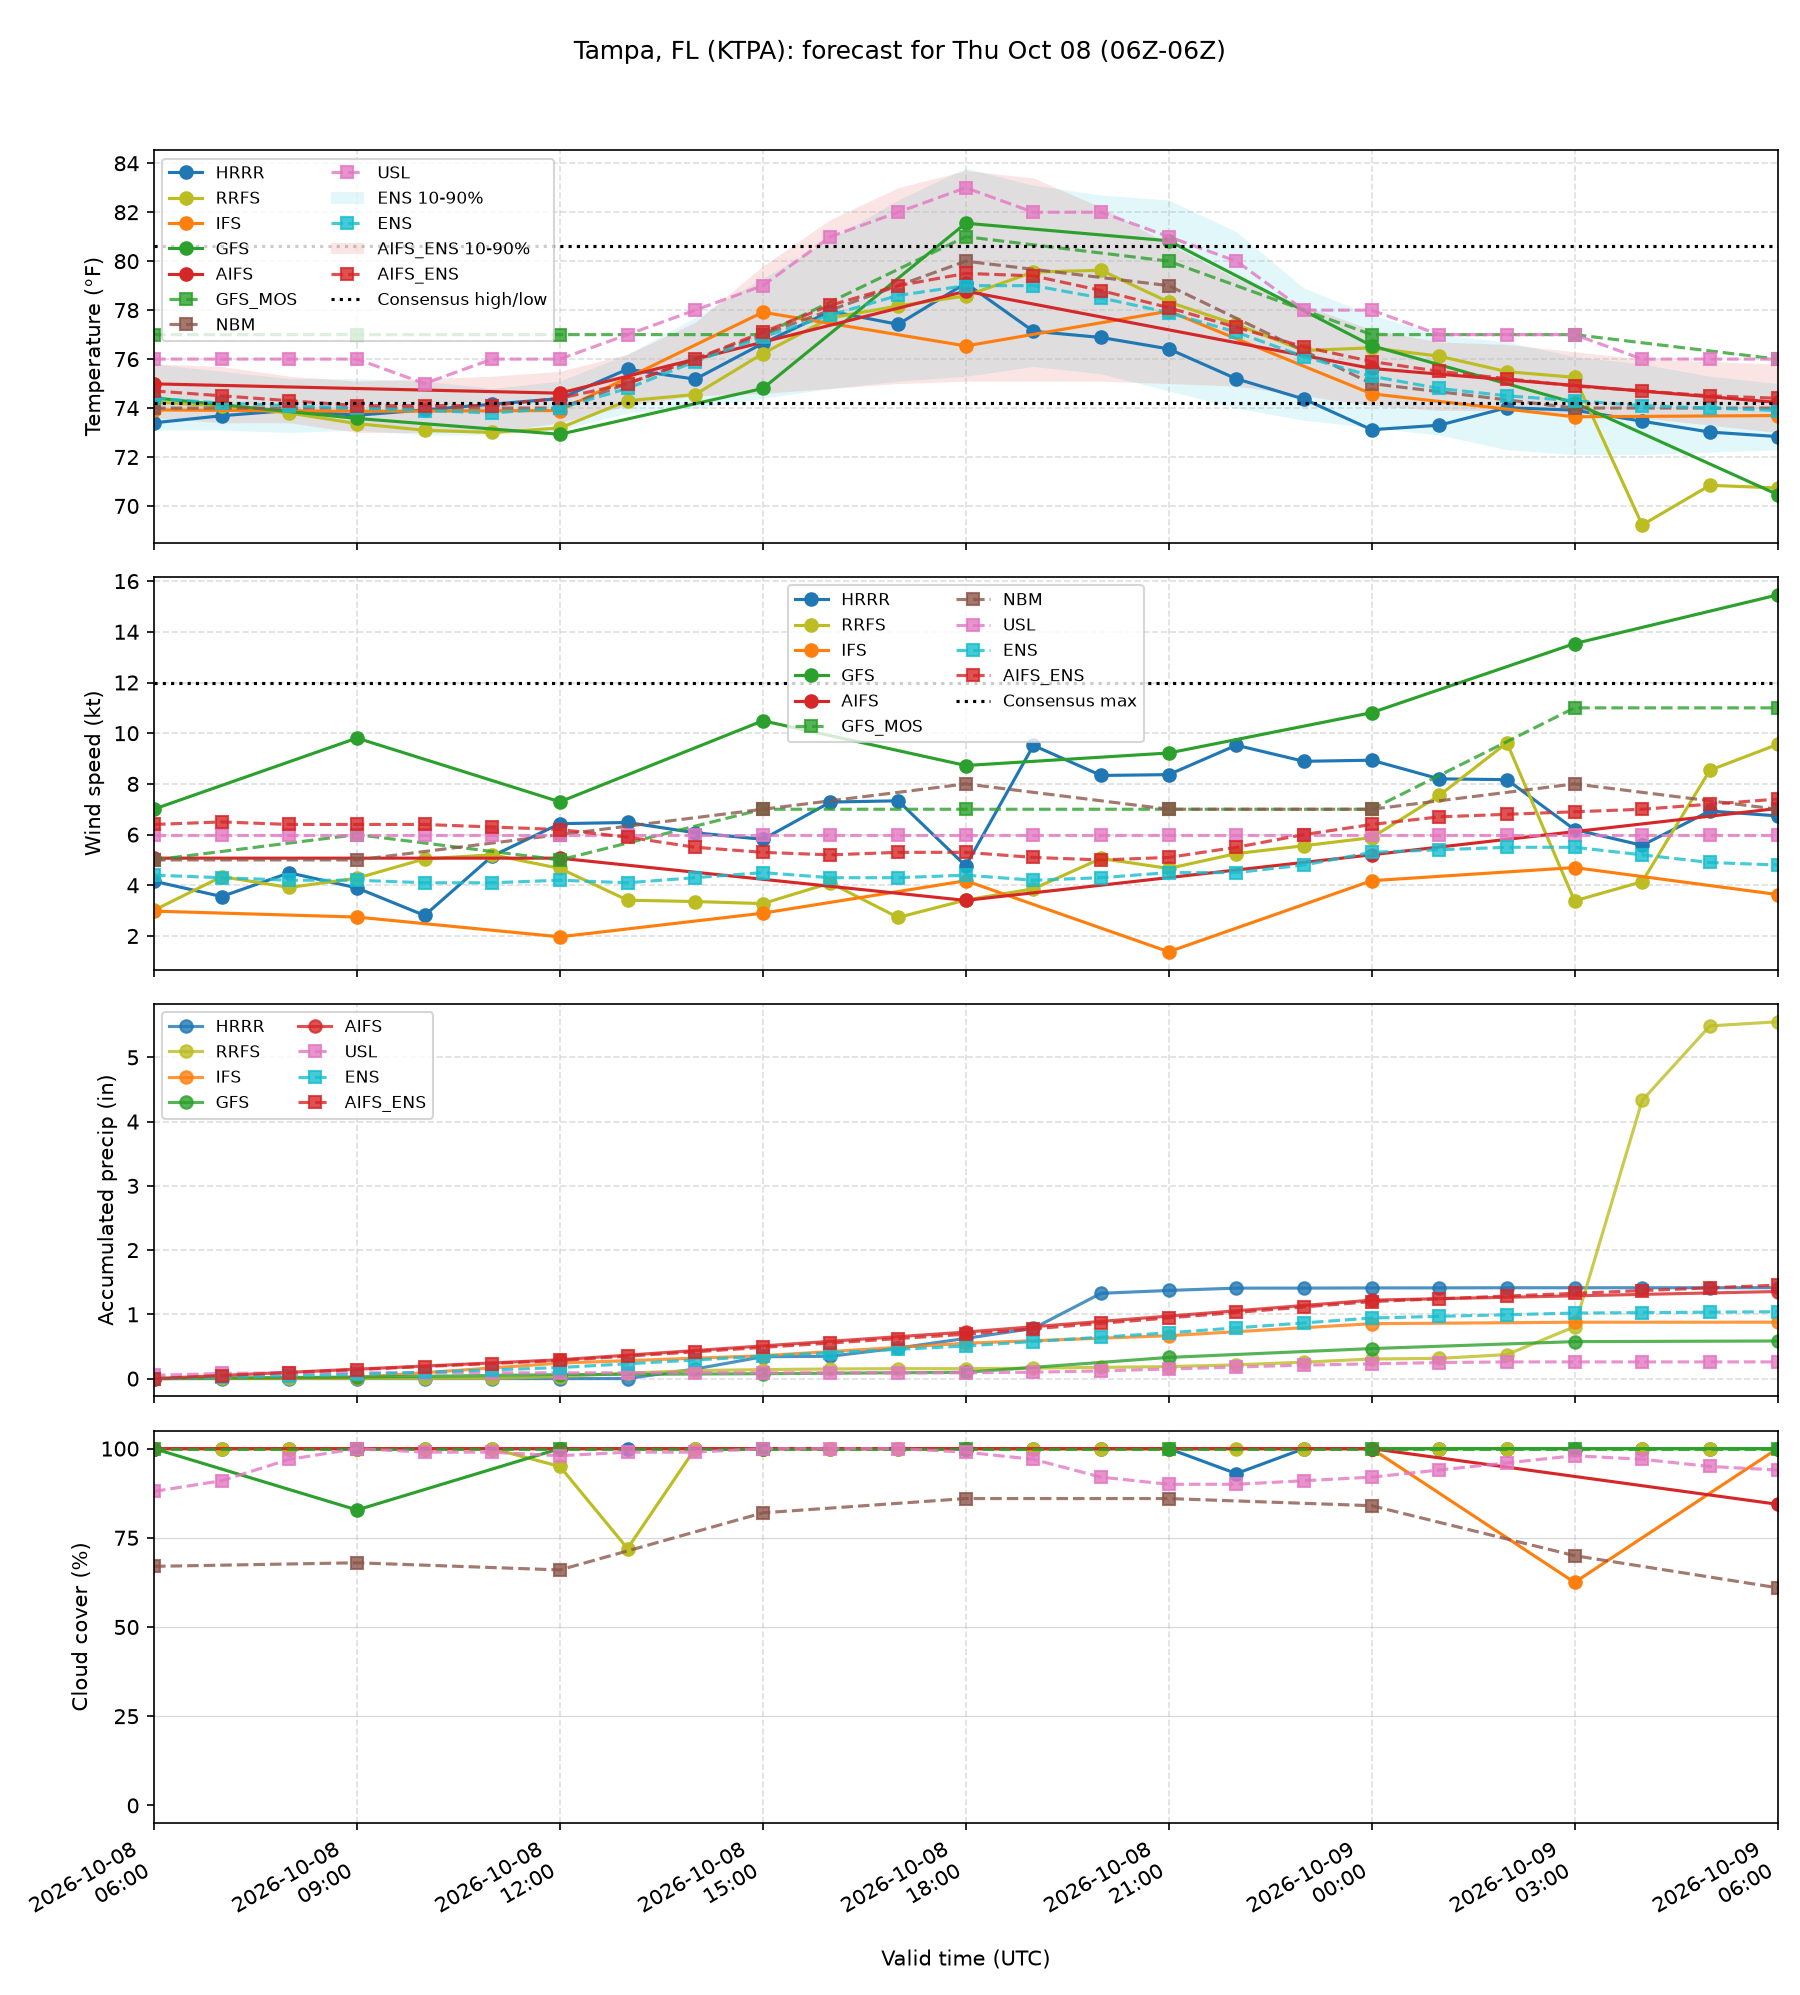
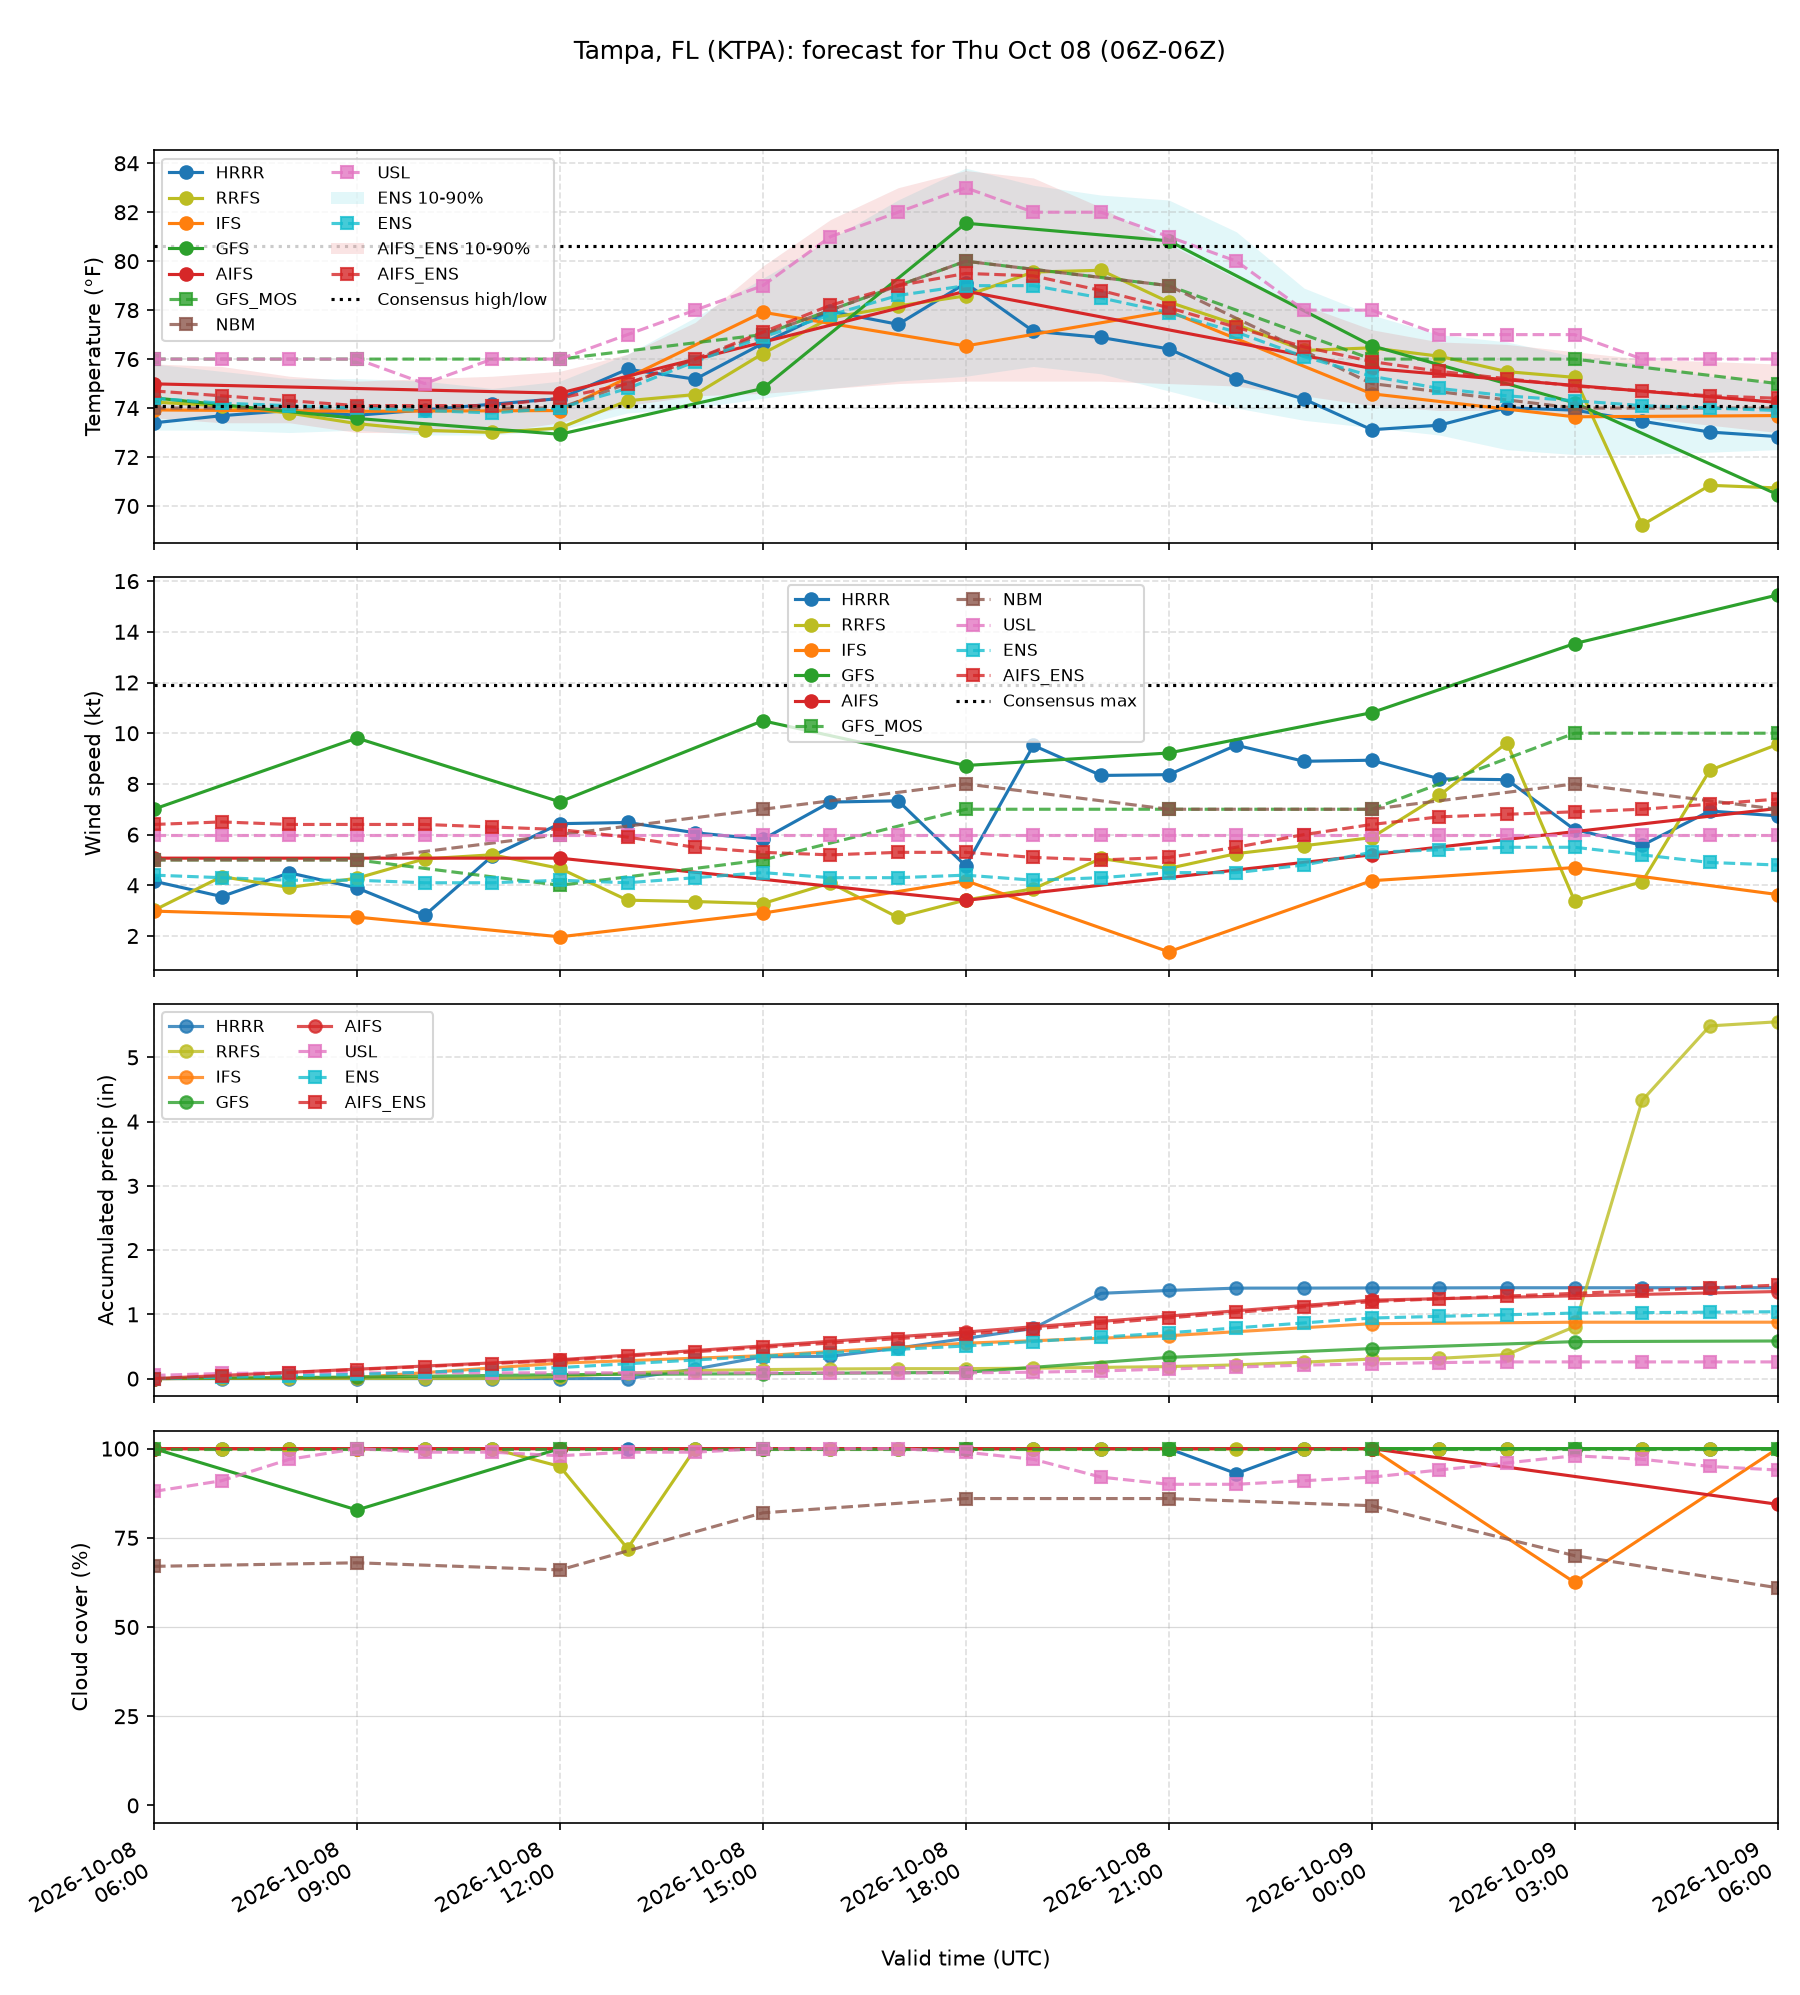
update wxchallenge: 2026-10-07T22:24:08+00:00

diff --git a/weather-forecasts/data/wxchallenge/brief.md b/weather-forecasts/data/wxchallenge/brief.md
@@ -3,7 +3,7 @@
 - Station: **KTPA**
 - Target day: **2026-10-08**, scored over 2026-10-08T06Z to 2026-10-09T06Z (UTC, 06Z to 06Z)
 - Submission deadline: 2026-10-08T00Z (forecasts for a day are due at 00Z that day)
-- Generated: 2026-10-07T22:12:09+00:00 (refreshed several times an hour while the forecast job runs)
+- Generated: 2026-10-07T22:24:08+00:00 (refreshed several times an hour while the forecast job runs)
 - Units: temperature °F, wind kt (max sustained), precipitation inches (liquid)
 
 ## How to use this brief (for AI assistants)
@@ -33,7 +33,7 @@ Run = day/hour (UTC) of the model initialization.
 | IFS | 07/12Z | 81.3 | 73.5 | 4.7 | 0.88 |
 | GFS | 07/12Z | 81.9 | 70.4 | 15.5 | 0.59 |
 | AIFS | 07/12Z | 78.8 | 74.2 | 7.0 | 1.36 |
-| GFS_MOS | 07/12Z | 84.0 | 75.0 | 11.0 | 1.46 |
+| GFS_MOS | 07/18Z | 83.0 | 74.0 | 10.0 | 2.24 |
 | NBM | 07/18Z | 81.0 | 73.0 | 8.0 | 0.91 |
 | USL | 07/12Z | 83.0 | 75.0 | 10.0 | 0.32 |
 | ENS | 07/06Z | 79.5 | 73.1 | 7.2 | 1.04 |
@@ -42,11 +42,11 @@ Run = day/hour (UTC) of the model initialization.
 | HRRRCAST (precip only) | 07/12Z | — | — | — | 1.35 |
 | REFS (precip only) | 07/18Z | — | — | — | 1.23 |
 | NBM_QMD (precip only) | 07/12Z | — | — | — | 1.49 |
-| **CONSENSUS** |  | **80.6** | **74.2** | **12.0** | **1.52** |
+| **CONSENSUS** |  | **80.6** | **74.1** | **11.9** | **1.59** |
 
 Notes:
 - AIFS: 6-hourly output: high/low likely underdone
-- GFS_MOS: MOS Q06 categories [2, 2, 4, 3] -> midpoints
+- GFS_MOS: MOS Q06 categories [3, 3, 4, 4] -> midpoints
 - NBM: NBS Q06 amounts
 - ENS: ensemble mean of 51 members (Open-Meteo)
 - AIFS_ENS: ensemble mean of 51 members (Open-Meteo)
@@ -103,7 +103,7 @@ NBM QMD calibrated 24-h precip percentiles: p10 0.07", p25 0.55", p50 1.49", p75
 
 | Source | Basis | 06-12 | 12-18 | 18-00 | 00-06 | 24 h | Brier 6h (n) |
 | --- | --- | --: | --: | --: | --: | --: | --: |
-| GFS_MOS | GFS MOS P06 | 65% | 63% | 82% | 87% | 87% to 100% | 0.25 (16) |
+| GFS_MOS | GFS MOS P06 | 74% | 82% | 82% | 90% | 90% to 100% | 0.25 (16) |
 | NBM | NBS P06 | 49% | 58% | 90% | 52% | 90% to 99% | 0.13 (16) |
 | ENS | member fraction | 71% | 88% | 88% | 63% | 98% | 0.25 (16) |
 | AIFS_ENS | member fraction | 92% | 98% | 96% | 94% | 100% | 0.29 (16) |
